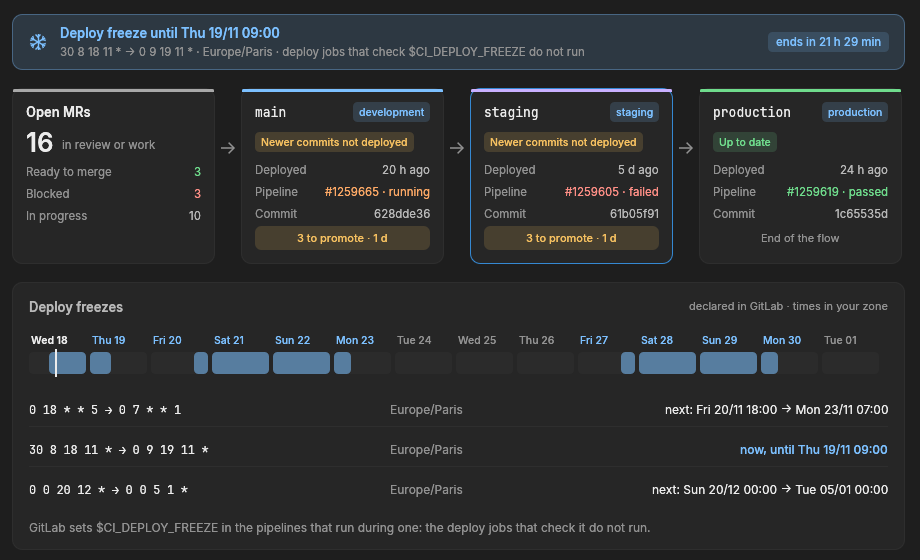
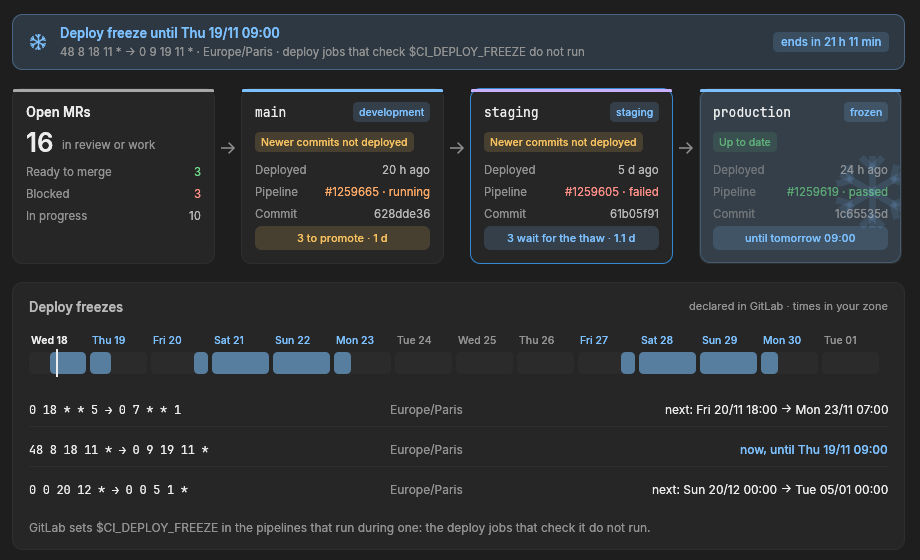
feat(gui): the production card shows frozen during a deploy freeze

diff --git a/gitlab-tracker/src/gui/environments.rs b/gitlab-tracker/src/gui/environments.rs
@@ -324,12 +324,17 @@ fn main(
         return;
     }
     let freezes = super::freeze::of(&g.app, overview);
+    // The end of the flow (production) shows frozen while a freeze holds.
+    let frozen = match freezes.status(now) {
+        crate::freeze::Status::Frozen { until, .. } => Some(until),
+        _ => None,
+    };
     // The card below has the details: the banner leads nowhere here.
     if super::freeze::banner(ui, &theme, &freezes, now, None).is_some() {
         ui.add_space(GAP);
     }
     let mut picked = None;
-    flow_strip(ui, &theme, model, pair, now, &mut picked);
+    flow_strip(ui, &theme, model, pair, now, frozen, &mut picked);
     ui.add_space(GAP);
     super::freeze::card(ui, &theme, &freezes, now);
     let days = PERIODS[g.environments.period.min(PERIODS.len() - 1)].0;
@@ -364,6 +369,7 @@ fn flow_strip(
     model: &Model,
     pair: Option<(usize, usize)>,
     now: DateTime<Utc>,
+    frozen: Frozen,
     picked: &mut Option<(usize, usize)>,
 ) {
     let n = model.branches.len() + 1;
@@ -394,7 +400,7 @@ fn flow_strip(
             if i == 0 {
                 open_card(ui, theme, card, model);
             } else {
-                branch_card(ui, theme, card, model, i - 1, pair, now, picked);
+                branch_card(ui, theme, card, model, i - 1, pair, now, frozen, picked);
             }
             if per_line == n && k + 1 < line {
                 let cx = card.right() + arrow / 2.0;
@@ -552,6 +558,9 @@ fn open_card(ui: &Ui, theme: &Theme, rect: Rect, model: &Model) {
     );
 }
 
+/// A deploy freeze holding now, until when (none: no end); `None`: no freeze.
+type Frozen = Option<Option<DateTime<Utc>>>;
+
 #[allow(clippy::too_many_arguments)]
 fn branch_card(
     ui: &mut Ui,
@@ -561,31 +570,67 @@ fn branch_card(
     i: usize,
     pair: Option<(usize, usize)>,
     now: DateTime<Utc>,
+    frozen: Frozen,
     picked: &mut Option<(usize, usize)>,
 ) {
     let b = &model.branches[i];
+    let last = i + 1 == model.branches.len();
+    // Production, frozen: tinted in blue, a snowflake in the corner, the
+    // content still readable.
+    let this_frozen = frozen.filter(|_| last);
+    // The branch before it: what it would promote waits for the thaw.
+    let next_frozen = frozen.is_some() && i + 2 == model.branches.len();
     let selected = pair.is_some_and(|(from, _)| from == i);
-    card_ground(ui, theme, rect, role_color(b.role, theme), selected);
+    let blue = theme.tones.blue;
+    if this_frozen.is_some() {
+        card_ground(ui, theme, rect, blue.fg, selected);
+        let radius = CornerRadius::same(theme.radii.large);
+        ui.painter().rect(
+            rect.shrink(1.0),
+            radius,
+            blue.bg,
+            Stroke::new(1.0, blue.fg.gamma_multiply(0.35)),
+            egui::StrokeKind::Inside,
+        );
+        let flake = Rect::from_center_size(
+            rect.right_top() + Vec2::new(-30.0, 104.0),
+            Vec2::splat(96.0),
+        );
+        super::icons::paint(
+            &ui.painter().with_clip_rect(rect.shrink(2.0)),
+            flake,
+            super::icons::Icon::Snowflake,
+            blue.fg.gamma_multiply(0.12),
+        );
+    } else {
+        card_ground(ui, theme, rect, role_color(b.role, theme), selected);
+    }
     let inner = rect.shrink2(Vec2::new(14.0, 14.0));
     let mut y = inner.top() + 10.0;
-    // The name, the environment on the right.
-    let env_w = b.environments.first().map_or(0.0, |env| {
-        let galley = ui.painter().layout_no_wrap(
-            env.clone(),
-            fonts::medium(theme.text_size - 2.5),
-            theme.tones.blue.fg,
-        );
-        let w = (galley.size().x + 12.0).min(inner.width() * 0.5);
-        board::paint_tag(
-            ui,
-            theme,
-            egui::pos2(inner.right() - w, y),
-            env,
-            theme.tones.blue,
-            false,
-        );
-        w + 8.0
-    });
+    let opacity = ui.opacity();
+    // The name, the environment on the right ("frozen" in its place while
+    // frozen: the tooltip of the banner names it).
+    let frozen_tag = this_frozen.map(|_| tl("frozen").to_string());
+    let env_w = frozen_tag
+        .as_ref()
+        .or(b.environments.first())
+        .map_or(0.0, |env| {
+            let galley = ui.painter().layout_no_wrap(
+                env.clone(),
+                fonts::medium(theme.text_size - 2.5),
+                theme.tones.blue.fg,
+            );
+            let w = (galley.size().x + 12.0).min(inner.width() * 0.5);
+            board::paint_tag(
+                ui,
+                theme,
+                egui::pos2(inner.right() - w, y),
+                env,
+                theme.tones.blue,
+                false,
+            );
+            w + 8.0
+        });
     board::paint_text(
         ui,
         egui::pos2(inner.left(), y),
@@ -595,6 +640,10 @@ fn branch_card(
         theme.palette.text,
         inner.width() - env_w,
     );
+    // Under the freeze, what is deployed shows a little faded.
+    if this_frozen.is_some() {
+        ui.set_opacity(opacity * 0.65);
+    }
     y += 30.0;
     // The state of what is deployed.
     let (state, tone) = match (&b.last, &b.pipeline) {
@@ -659,9 +708,33 @@ fn branch_card(
         &sha.unwrap_or_else(|| board::dash().to_string()),
         None,
     );
+    ui.set_opacity(opacity);
     // At the bottom: what waits for the next branch.
     let foot = Rect::from_min_max(egui::pos2(inner.left(), inner.bottom() - 24.0), inner.max);
-    if i + 1 < model.branches.len() {
+    if let Some(until) = this_frozen {
+        // The time left is in the banner above: the card keeps the end.
+        let text = match until {
+            Some(until) => tf(
+                "until {when}",
+                &[(
+                    "when",
+                    &crate::snooze::when_text(until, &chrono::Local::now()),
+                )],
+            ),
+            None => tl("frozen, with no end").to_string(),
+        };
+        ui.painter()
+            .rect_filled(foot, CornerRadius::same(theme.radii.medium), blue.bg);
+        board::paint_text(
+            ui,
+            foot.center(),
+            Align2::CENTER_CENTER,
+            &text,
+            fonts::medium(theme.text_size - 2.0),
+            blue.fg,
+            foot.width() - 12.0,
+        );
+    } else if i + 1 < model.branches.len() {
         let list = model.gap(i, i + 1);
         let late = oldest(list).is_some_and(|o| board::days_between(o, now) >= LATE_DAYS);
         let (text, tone) = if list.is_empty() {
@@ -674,13 +747,23 @@ fn branch_card(
             )
         } else {
             let wait = oldest(list).map(|o| board::duration_text(board::days_between(o, now)));
-            let mut text = tn(list.len() as u64, "{n} to promote", "{n} to promote");
+            let mut text = if next_frozen {
+                tn(
+                    list.len() as u64,
+                    "{n} waits for the thaw",
+                    "{n} wait for the thaw",
+                )
+            } else {
+                tn(list.len() as u64, "{n} to promote", "{n} to promote")
+            };
             if let Some(w) = wait {
                 text = format!("{text} · {w}");
             }
             (
                 text,
-                if late {
+                if next_frozen {
+                    blue
+                } else if late {
                     theme.tones.red
                 } else {
                     theme.tones.amber

diff --git a/docs/desktop-window.md b/docs/desktop-window.md
@@ -161,7 +161,9 @@ a time zone, e.g. `0 18 * * 5 -> 0 7 * * 1 Europe/Paris`. GitLab's win when ther
 are some. Those of the app are a warning only: GitLab's set `$CI_DEPLOY_FREEZE`
 in the pipelines, for the deploy jobs to check, the app's do not. While a freeze
 holds, or starts within two days, a banner says until when on Promote,
-Environments and Today. The Environments page shows the next two weeks, the
+Environments and Today. While it holds, the production card (the end of the flow)
+turns blue, marked frozen, with its end, and the branch before it shows what
+waits for the thaw. The Environments page shows the next two weeks, the
 frozen hours in blue, and each period with when it comes next. The crons are read
 in the period's own zone, daylight saving included; the times shown are your
 computer's.
